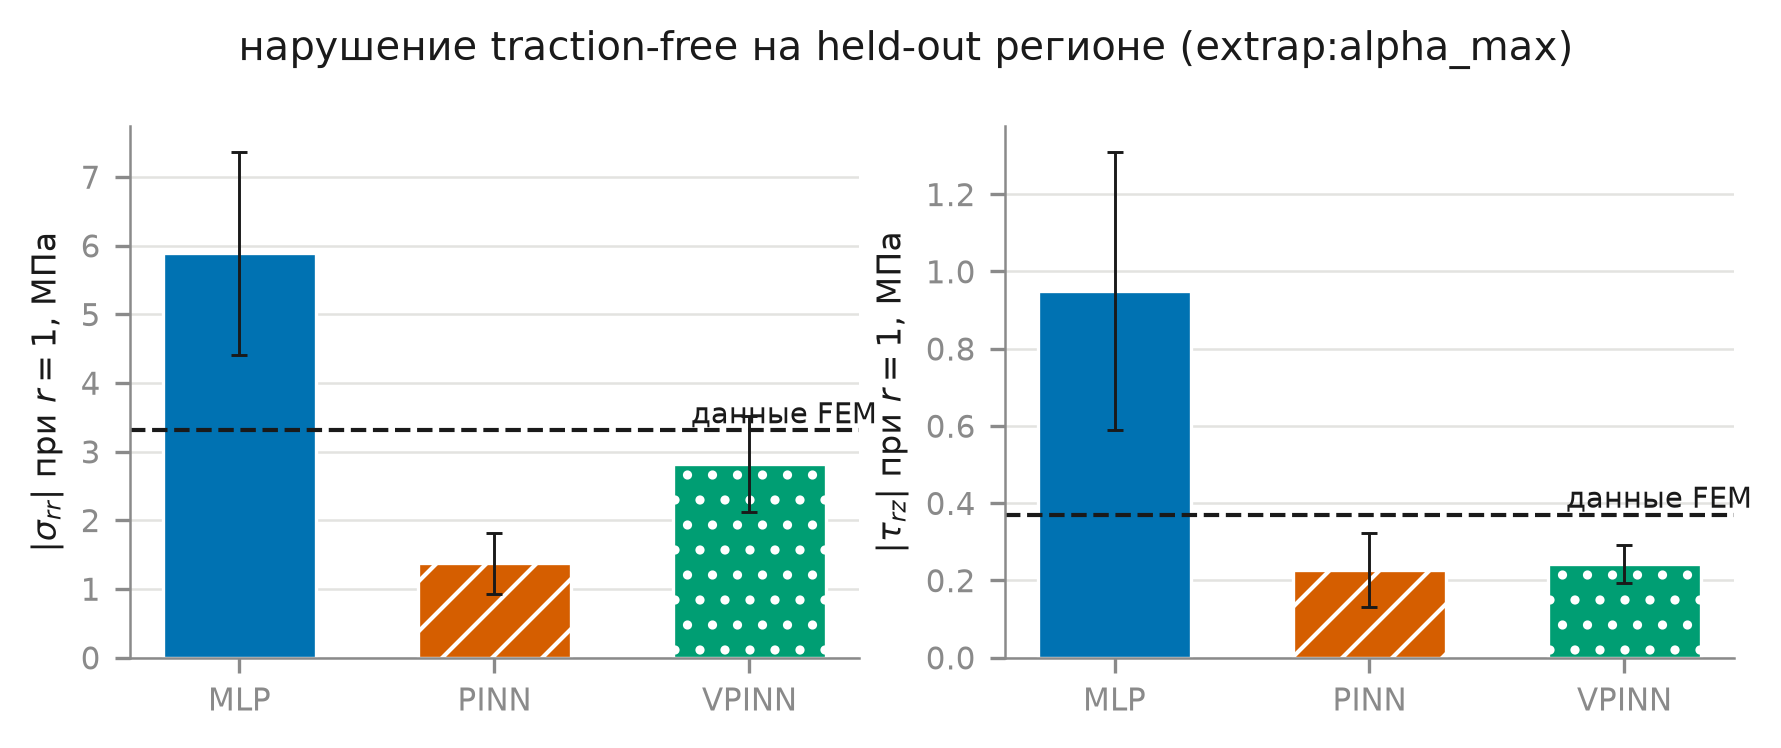
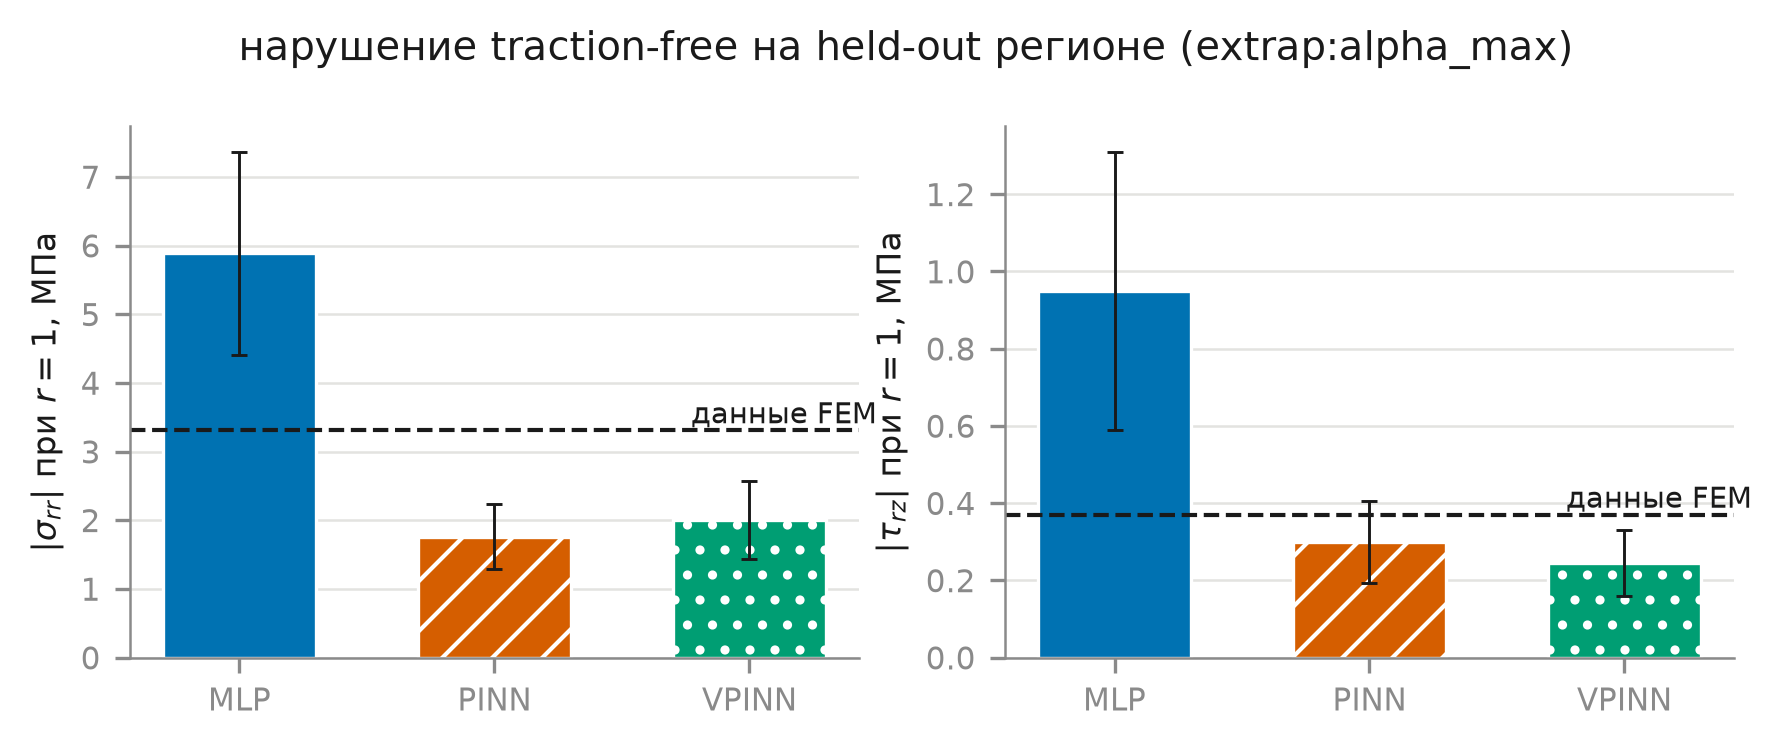
Результаты: устойчивость к порче меток и абляция по форме уравнений равновесия
Порча меток (сдвиг sigma_tt на +250 МПа на доле обучающих наборов, hold-out
чистый). При 10 % испорченных меток PINN даёт 17.45 против 19.47 у MLP,
p = 0.001 — разница установлена; у VPINN 17.79, p = 0.068 — не установлена.
При нулевой порче семейства неразличимы. Рост ошибки: MLP x1.67, VPINN x1.58,
PINN x1.46.

Абляция с z во входе. Включение осевого уравнения снижает полную осевую
невязку на 35 % на случайном hold-out (620 -> 404 МПа/м) и на 27 % за
диапазоном (1393 -> 1015) при изменении macro-RMSE на -0.20 и -0.68 МПа
соответственно. То есть член d(sigma_zz)/dz, который в одномерной постановке
отбросить нельзя (68 % от удержанных), при введении z действительно начинает
работать, и это ничего не стоит по точности. Это прямой ответ на замечание
Reviewer #1 измерением, а не рассуждением.

diff --git a/publication/experiments/make_results.py b/publication/experiments/make_results.py
@@ -394,6 +394,24 @@ def section_corrupt(df, L):
         rows.append(r)
     h = ["модель"] + [f"{int(rt*100)} %" for rt in rates] + ["рост"]
     L(md_table(rows, h, h) + "\n")
+    hi = max(rates)
+    if hi > 0 and len(fams) >= 2:
+        from scipy.stats import ttest_ind
+        base_f = "mlp" if "mlp" in fams else fams[0]
+        a = d[(d["family"] == base_f) & (d["corrupt_rate"] == hi)]["macro_rmse"].to_numpy()
+        for f in fams:
+            if f == base_f:
+                continue
+            b = d[(d["family"] == f) & (d["corrupt_rate"] == hi)]["macro_rmse"].to_numpy()
+            if len(a) < 3 or len(b) < 3:
+                L(f"> {LABEL[f]} против {LABEL[base_f]} при {int(hi*100)} % порчи: "
+                  f"сидов меньше трёх, тест не проводится.\n")
+                continue
+            p = float(ttest_ind(a, b, equal_var=False).pvalue)
+            L(f"> При {int(hi*100)} % испорченных меток {LABEL[f]} даёт "
+              f"{b.mean():.2f} против {a.mean():.2f} у {LABEL[base_f]}: "
+              f"Δ = {a.mean()-b.mean():+.2f} МПа, p = {p:.3f} → разница "
+              f"{'установлена' if p < 0.05 else '**не установлена**'}.\n")
 
 
 def section_twod(df, L):
@@ -419,6 +437,30 @@ def section_twod(df, L):
     if rows:
         h = list(rows[0].keys())
         L(md_table(rows, h, h) + "\n")
+        L("Читать так. `|R_r|` и `|R_z|` — апостериорные невязки на предсказаниях, "
+          "посчитанные в ПОЛНОЙ форме (со всеми членами) и в редуцированной (без "
+          "осевых производных). Сравнивать между конфигурациями надо колонки "
+          "«полная»: именно они говорят, насколько предсказание удовлетворяет "
+          "настоящему уравнению равновесия. Колонка «редуц.» приведена для "
+          "сверки с одномерной постановкой.\n")
+        for sp in sorted(d["split"].unique()):
+            v = d[d["split"] == sp]
+            red = v[v["family"] == "pinn2d_reduced"]
+            full = v[v["family"] == "pinn2d_full"]
+            if red.empty or full.empty:
+                continue
+            dz = 100 * (1 - full["eq_z_full"].mean() / max(red["eq_z_full"].mean(), 1e-9))
+            drm = full["macro_rmse"].mean() - red["macro_rmse"].mean()
+            L(f"> **`{sp}`.** Включение осевого уравнения снижает полную осевую "
+              f"невязку на **{dz:.0f} %** ({red['eq_z_full'].mean():.0f} → "
+              f"{full['eq_z_full'].mean():.0f} МПа/м) при изменении macro-RMSE на "
+              f"{drm:+.2f} МПа. То есть член `∂σ_zz/∂z`, который в одномерной "
+              f"постановке отбросить нельзя (он даёт 68 % от удержанных), при "
+              f"введении `z` во вход действительно начинает работать — и это "
+              f"обходится без потери точности.\n")
+        L("Абсолютные macro-RMSE этого раздела НЕ сравнимы с разделом 1: там "
+          "предсказывается один радиальный профиль на набор, здесь — вся сетка "
+          "(z, r), включающая осевую изменчивость.\n")
 
 
 def main():
